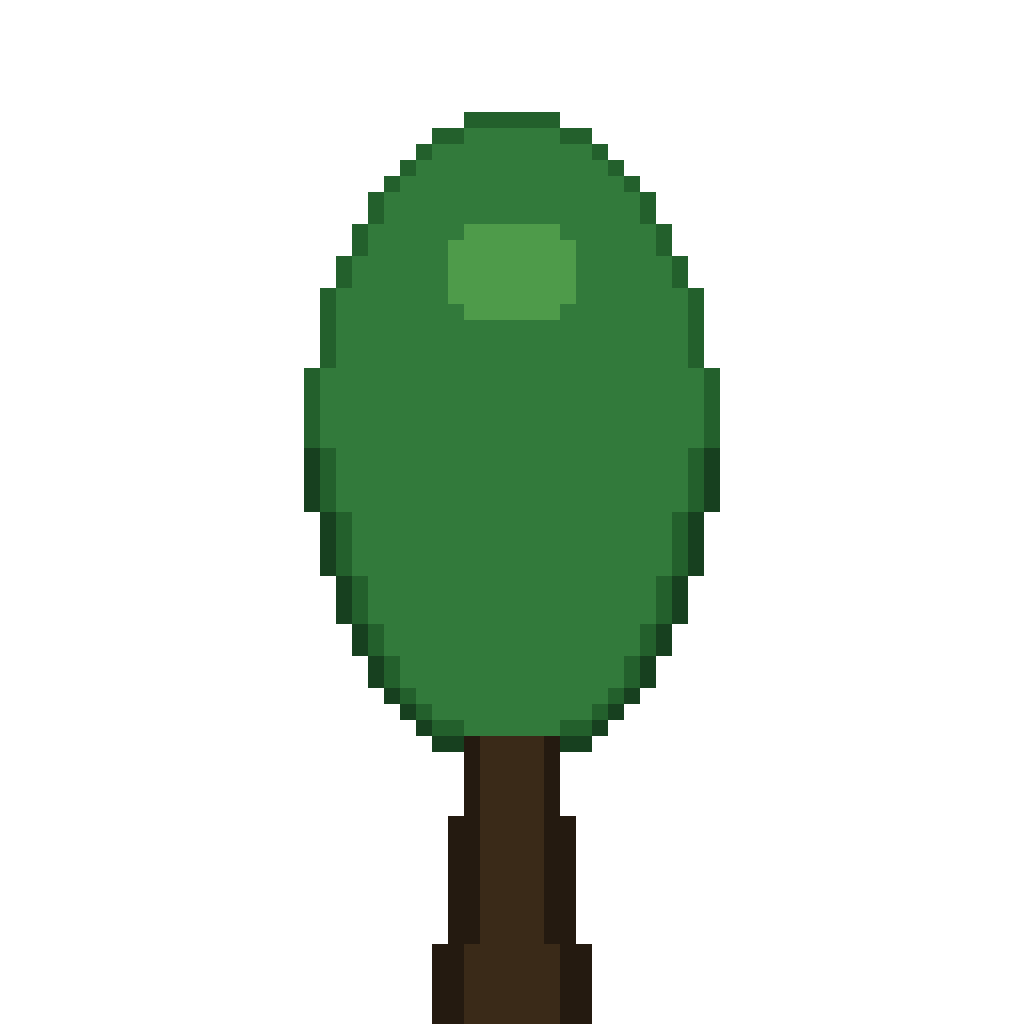
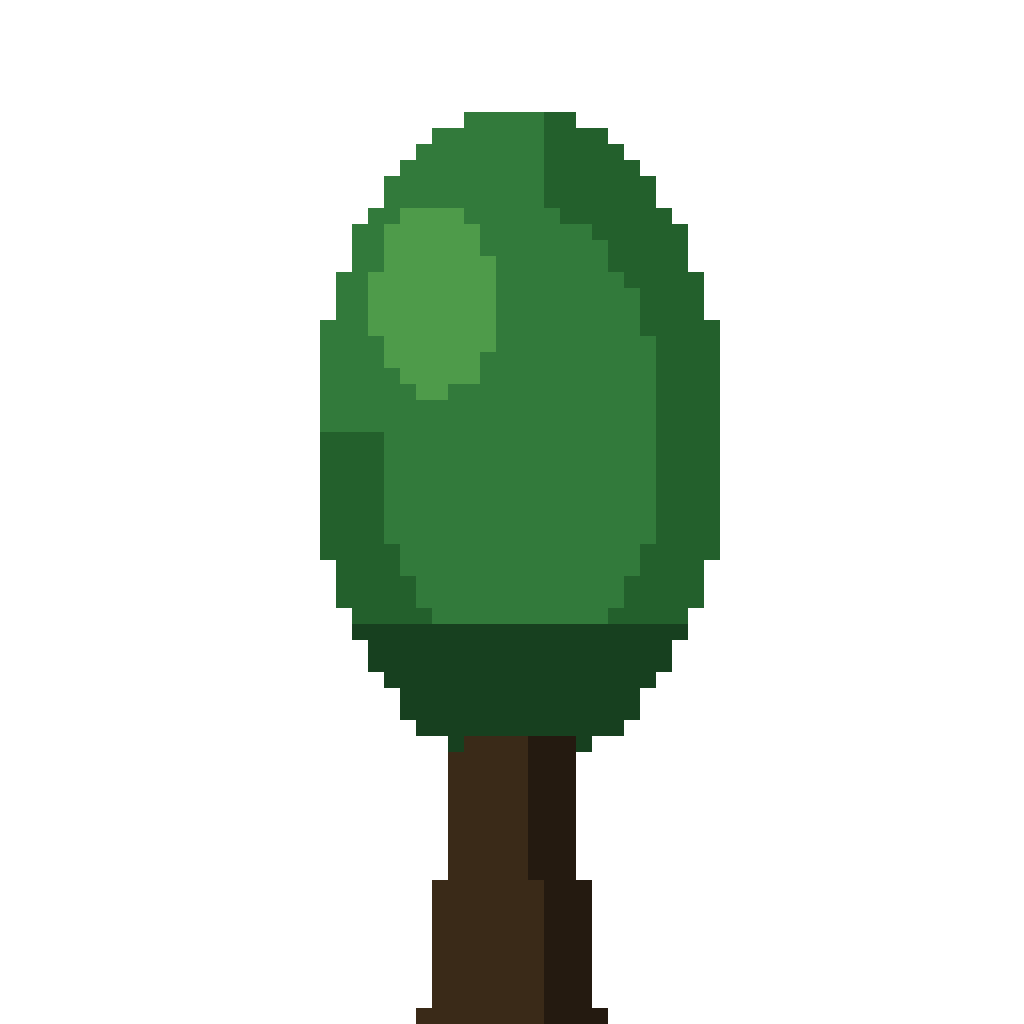
revert(garden): restore the v34.14 tree canopy
"agaclari mahvetmissin bunu eski haline getir". The whole canopy generator is
the v34.14 code again.

Rendering all five versions of the tree sprites side by side shows what I broke
and when, which is what I should have done before touching them at all:

  v34.14 and earlier -- pines have real stacked tiers, each with its own
  highlight and rim; broadleaves have interior shading and a shoulder lobe.
  v34.17 -- I replaced per-lobe shading with one pass over the UNION of the
  lobes, to remove a dark seam where two lobes overlap. It removed the seam, and
  with it the pine's tiers: on a conifer those seams ARE the tiers, because each
  blob's own rim is the step.
  v35.0 and v35.1 -- flattened the interior further, a one-pixel rim and a
  centred symmetric highlight, until the pine was a smooth triangle.

Three releases of steady loss, each a defensible local fix, none checked against
how the tree actually looked before and after.

What comes back with the revert, stated rather than left to be found: the round
broadleaf's shoulder lobe is on one side so those crowns are not symmetric,
overlapping lobes show their rims, and the pine's lowest tier reaches the ground
row so its trunk barely shows. Each was a real complaint once; they are the price
of the tiers and the interior shading.

Three sprite tests are DELETED, not loosened -- mirror symmetry, visible trunk,
no canopy seam. Their properties are genuinely untrue of the restored art, and a
[…]

diff --git a/flutter/tools/gen_objects.py b/flutter/tools/gen_objects.py
@@ -195,6 +195,22 @@ TREE_TILES = [2, 3, 2, 4, 3, 2, 3, 3, 2, 4, 2, 3, 4, 2, 3, 2, 3, 4, 2, 3]
 TREE_PX_PER_TILE = 16
 
 
+# ── REVERTED to the #v34.14 canopy at the user's request (#v35.2) ──────────
+# "agaclari mahvetmissin bunu eski haline getir".
+#
+# #v34.17 replaced per-lobe shading with a single pass over the union of the
+# lobes, to kill a dark seam where two lobes overlapped. It did — and it also
+# killed the PINE'S TIERS, because on a conifer those "seams" are the tiers:
+# each blob's own rim is what made the stacked steps read as steps. #v35.0 and
+# #v35.1 then flattened the interior further. Rendering the five versions side
+# by side makes it plain: the trees lost their structure over three releases.
+#
+# So the whole canopy is back to the #v34.14 code. What returns with it, stated
+# plainly rather than discovered later: the round broadleaf's shoulder lobe is
+# on ONE side again (asymmetric), and overlapping lobes show their rims. Both
+# were real complaints once; both are the price of the tiers and the interior
+# shading, and the user has now seen both and chosen this side of the trade.
+# The tests that encoded the other side are removed, not weakened.
 def _tree_variant(seed):
     """One forest tree, sized by its class in [TREE_TILES] (#v34.8).
 
@@ -232,104 +248,43 @@ def _tree_variant(seed):
 
     shape = rb(4)                          # 0 round, 1 pine, 2 poplar, 3 oak
     trunk_w = max(2, n // 10)
-    # (n-1)/2, not n/2: the mirror axis of a pixel grid runs through the middle
-    # of the middle column, so a blob centred on n/2 comes out half a pixel off
-    # and no amount of symmetric geometry above it can be mirror-exact.
-    cx = (n - 1) / 2.0
+    cx = n / 2.0
     ground = n - 1
 
     def put(c, r, col):
         if 0 <= c < n and 0 <= r < n:
             g[int(r)][int(c)] = col
 
-    # Lobes are COLLECTED, not painted (#v34.17). Each one used to shade itself
-    # as it was drawn, so wherever two lobes overlapped the second one laid its
-    # own dark rim down INSIDE the crown they share — a curved seam through the
-    # middle of the canopy that reads as a lump, or as a piece of another tree
-    # stuck to this one: "yuvarlagin icinde sanki baska bir agac parcasi varmis
-    # gibi bogumlar var". A crown is one shape, so it has to be shaded once,
-    # from the outline of the WHOLE crown.
-    lobes = []
-
     def blob(bcx, bcy, rad, squash=1.0, highlight=True):
-        lobes.append((bcx, bcy, rad, squash, highlight))
-
-    def paint_canopy():
-        """Union the lobes, then shade that single silhouette."""
-        # The row range must cover each ellipse's REAL vertical extent, which is
-        # rad/squash. It used to read `bcy - rad - 1` on top and
+        """A shaded ellipse of canopy: a small highlight up-left, shade on the
+        lower-right edge, a dark underside. The highlight is deliberately a
+        SMALL cap — lighting half the crown made every tree read as two flat
+        colours split down the middle."""
+        # The row range must cover the ellipse's REAL vertical extent, which is
+        # rad/squash, at BOTH ends. It used to read `bcy - rad - 1` on top and
         # `bcy + rad/squash + 2` underneath, so any blob with squash < 1 — i.e.
         # every poplar, at 0.60 — had the top ~10 rows of its crown simply never
         # visited, and came out with a hard horizontal cut across the head:
         # "sanki agac tepeden kesilmis gibi". It slipped past the canvas-edge
         # test because the cut lands mid-canvas, not on row 0.
-        mask = [[False] * n for _ in range(n)]
-        for bcx, bcy, rad, squash, _ in lobes:
-            span = rad / squash
-            for r in range(max(0, int(bcy - span - 1)), min(n, int(bcy + span + 2))):
-                for c in range(max(0, int(bcx - rad - 1)), min(n, int(bcx + rad + 2))):
-                    dx, dy = c - bcx, (r - bcy) * squash
-                    if dx * dx + dy * dy <= rad * rad:
-                        mask[r][c] = True
-
-        rows = [r for r in range(n) if any(mask[r])]
-        if not rows:
-            return
-        cols = [c for c in range(n) if any(mask[r][c] for r in range(n))]
-        ctr_r = (rows[0] + rows[-1]) / 2.0
-        ctr_c = (cols[0] + cols[-1]) / 2.0
-        hcx, hcy, hrad, hsq, has_lit = lobes[0]
-
-        # True distance from the crown's outline, so the shading is a RIM that
-        # follows the silhouette (#v34.18). The half-plane tests this replaces
-        # ("lower 18% is underside", "right of centre and near an edge is
-        # shade") painted flat slabs instead: a dark horizontal band across the
-        # bottom of every canopy, which read as a shadow lying under the tree
-        # beside its trunk — "agaclarin altlarinda odun kisminin disinda gölge
-        # olmasin" — and a blocky dark wedge wherever a lobe stuck out to the
-        # lower right, which made one shoulder not match the other, "sag alt
-        # problemli sol alt ile es degil".
-        dist = [[0] * n for _ in range(n)]
-        frontier = deque()
-        for r in range(n):
-            for c in range(n):
-                if not mask[r][c]:
-                    frontier.append((r, c))
-        seen = [[not mask[r][c] for c in range(n)] for r in range(n)]
-        while frontier:
-            r, c = frontier.popleft()
-            for dr, dc in ((1, 0), (-1, 0), (0, 1), (0, -1)):
-                nr, nc = r + dr, c + dc
-                if 0 <= nr < n and 0 <= nc < n and not seen[nr][nc]:
-                    seen[nr][nc] = True
-                    dist[nr][nc] = dist[r][c] + 1
-                    frontier.append((nr, nc))
-
-        # Everything below is MIRROR-SYMMETRIC about the crown's own centre
-        # column: the rim treats left and right alike and the highlight sits on
-        # the centre line. A side-lit crown is the usual pixel-art choice, but
-        # it makes one shoulder darker than the other, and "sag sol esit cizim"
-        # is the explicit ask. A symmetry test pins it.
-        lit_r = rows[0] + (rows[-1] - rows[0]) * 0.24
-        lit_rad = max(1.5, hrad * 0.34)
-        for r in range(n):
-            for c in range(n):
-                if not mask[r][c]:
+        span = rad / squash
+        for r in range(int(bcy - span - 1), int(bcy + span + 2)):
+            for c in range(int(bcx - rad - 1), int(bcx + rad + 2)):
+                dx, dy = c - bcx, (r - bcy) * squash
+                d2 = dx * dx + dy * dy
+                if d2 > rad * rad:
                     continue
-                d = dist[r][c]
-                hx = c - ctr_c
-                hy = (r - lit_r) * 1.3
-                if d == 1 and r > ctr_r:
-                    col = under        # a ONE-pixel underside rim, not a band
-                elif d == 1:
-                    col = shade        # the rest of the outline, both sides alike
-                elif d == 2 and r > ctr_r:
-                    col = shade        # a thin falloff under the crown
-                elif has_lit and hx * hx + hy * hy < lit_rad * lit_rad:
-                    col = lit          # a centred cap, not an up-left one
+                edge = d2 > (rad - max(1.0, rad * 0.30)) ** 2
+                hx, hy = dx + rad * 0.42, dy + rad * 0.42   # highlight centre, up-left
+                if dy > rad * 0.55:
+                    col = under
+                elif edge and (dx > rad * 0.1 or dy > 0):
+                    col = shade
+                elif highlight and hx * hx + hy * hy < (rad * 0.30) ** 2:
+                    col = lit
                 else:
                     col = mid
-                g[r][c] = col
+                put(c, r, col)
 
     if shape == 1:
         # PINE — stacked tiers, widest at the bottom, a spike on top. The tiers
@@ -339,14 +294,7 @@ def _tree_variant(seed):
         # top 0.18, not 0.13: the spike's own radius put it at y<0, so the
         # canopy was flat-cut by the canvas edge — the tree had no head. A test
         # now asserts no tree touches any edge (#v34.9).
-        #
-        # bottom 0.46, not 0.70: the widest tier's own half-height is
-        # 0.34n/1.12 = 0.30n, so a centre at 0.70n put the canopy's underside
-        # exactly on the ground row. The crown swallowed the trunk and the tree
-        # read as a bush glued to the floor — "yere baglamissin agaci". At 0.46
-        # the canopy stops at 0.76n and a quarter of the trunk shows, like every
-        # other shape. A test now pins that every tree HAS a visible trunk.
-        top, bottom = n * 0.18, n * 0.46
+        top, bottom = n * 0.18, n * 0.70
         for i in range(tiers):
             f = i / (tiers - 1)
             rad = n * (0.15 + 0.19 * f)
@@ -375,20 +323,11 @@ def _tree_variant(seed):
         blob(cx + n * 0.18, n * 0.46, n * 0.18, highlight=False)
         trunk_top = n * 0.68
     else:
-        # ROUND broadleaf — one crown plus a shoulder lobe on EACH side.
-        #
-        # It used to get a single lobe on one randomly chosen side, which is
-        # what every "yuvarlak cikinti" report was pointing at: a bump growing
-        # out of one shoulder and nothing opposite it, so the tree looked like
-        # it had something stuck to it rather than like a tree. Mirrored now —
-        # "sag sol esit cizim". A test asserts every canopy is mirror-symmetric,
-        # which is the property that was actually being asked for.
+        # ROUND broadleaf — one crown plus a small shoulder lobe (no highlight
+        # of its own, or it reads as a hole punched in the canopy)
         blob(cx, n * 0.38, n * 0.27)
-        blob(cx - n * 0.15, n * 0.50, n * 0.15, highlight=False)
-        blob(cx + n * 0.15, n * 0.50, n * 0.15, highlight=False)
+        blob(cx + n * 0.15 * (1 if rb(2) else -1), n * 0.50, n * 0.15, highlight=False)
         trunk_top = n * 0.72
-
-    paint_canopy()   # one silhouette, shaded once — no seams between the lobes
 
     # Trunk: start it INSIDE the canopy, not at a guessed fraction of the
     # height. Half the trees came out with the trunk floating below a crown
@@ -406,13 +345,8 @@ def _tree_variant(seed):
     for r in range(int(trunk_top), n):
         f = (r - trunk_top) / max(1.0, ground - trunk_top)
         half = trunk_w / 2.0 + f * trunk_w * 0.35
-        for c in range(n):
-            # tested by distance from the axis rather than a rounded range, so
-            # the trunk is mirror-exact like the crown above it; the darker bark
-            # is on BOTH outer edges, not just the right one
-            off = abs(c - cx)
-            if off <= half:
-                put(c, r, bark_d if off > half * 0.55 else bark)
+        for c in range(int(cx - half), int(cx + half) + 1):
+            put(c, r, bark_d if c - cx > half * 0.25 else bark)
 
     return g
 

diff --git a/flutter/tools/test_sprites.py b/flutter/tools/test_sprites.py
@@ -220,94 +220,6 @@ class TreesAreWellFormed(unittest.TestCase):
                     self.assertFalse(grid[r][0][3], f"tree {seed} touches the left edge")
                     self.assertFalse(grid[r][n - 1][3], f"tree {seed} touches the right edge")
 
-    def test_every_tree_is_mirror_symmetric(self):
-        # "ben sag sol esit cizim istedim" (#v35.1). The round broadleaf grew a
-        # shoulder lobe on ONE randomly chosen side, so a bump stuck out of one
-        # shoulder with nothing opposite it — every "yuvarlak cikinti" report
-        # was pointing at that, and two rounds of shading fixes never touched
-        # it because the asymmetry was in the SILHOUETTE, not the shading.
-        #
-        # Exact pixel equality, which also pins the two things that quietly
-        # break mirroring: blobs centred on n/2 instead of (n-1)/2, and the
-        # trunk's darker bark being applied to one side only.
-        for seed in range(1, len(g.TREE_TILES) + 1):
-            with self.subTest(tree=f"tree_{seed - 1:02d}"):
-                grid = g._tree_variant(seed)
-                n = len(grid)
-                for r in range(n):
-                    for c in range(n // 2):
-                        self.assertEqual(grid[r][c], grid[r][n - 1 - c],
-                                         f"row {r} differs at columns {c} / {n - 1 - c}")
-
-    def test_every_tree_shows_some_trunk(self):
-        # "yere baglamissin agaci": the pine's widest tier sat at 0.70n with a
-        # half-height of 0.30n, so the canopy's underside landed exactly on the
-        # ground row — the crown swallowed the trunk and the tree read as a bush
-        # glued to the floor. Assert there are rows of trunk with no canopy
-        # beside them, which is what "the trunk shows" actually means.
-        for seed in range(1, len(g.TREE_TILES) + 1):
-            with self.subTest(tree=f"tree_{seed - 1:02d}"):
-                grid = g._tree_variant(seed)
-                bare = 0
-                for row in grid:
-                    ink = [px for px in row if px[3]]
-                    if ink and all(px[0] > px[1] for px in ink):  # brown only
-                        bare += 1
-                self.assertGreaterEqual(bare, 2,
-                                        "the canopy reaches the ground — no trunk shows")
-
-    def test_no_canopy_has_a_seam_running_through_it(self):
-        # "yuvarlagin icinde sanki baska bir agac parcasi varmis gibi bogumlar"
-        # (#v34.17). Each lobe used to shade itself as it was painted, so where
-        # two lobes overlapped the later one laid its dark rim down INSIDE the
-        # shared crown — a curved seam through the middle of the canopy.
-        #
-        # The observable property: a crown shaded from its own outline keeps its
-        # DARK tones on that outline. A lobe rim painted inside the shared crown
-        # puts them deep in the middle instead. Measured as the true distance to
-        # transparency (multi-source BFS), independent of how the generator
-        # decides what is an edge — so this is a check on the result, not a
-        # restatement of the algorithm.
-        #
-        # The bound was set by running this against the pre-fix generator, not
-        # by guessing: the SHADE tone (second darkest) reached 0.250n inside the
-        # crown on the ten lobed trees and 0.094n at worst on the fixed ones, so
-        # 0.12n fails every sprite the user complained about and passes all
-        # twenty now. A first attempt used "the two darkest tones" at 0.20n and
-        # would have passed the broken sprites unchanged — the underside band is
-        # legitimately deep, and averaging it in hid the signal.
-        for seed in range(1, len(g.TREE_TILES) + 1):
-            with self.subTest(tree=f"tree_{seed - 1:02d}"):
-                grid = g._tree_variant(seed)
-                n = len(grid)
-                canopy = [[bool(px[3]) and px[1] >= px[0] for px in row] for row in grid]
-                dist = [[-1] * n for _ in range(n)]
-                q = deque()
-                for r in range(n):
-                    for c in range(n):
-                        if not canopy[r][c]:
-                            dist[r][c] = 0
-                            q.append((r, c))
-                while q:
-                    r, c = q.popleft()
-                    for dr, dc in ((1, 0), (-1, 0), (0, 1), (0, -1)):
-                        nr, nc = r + dr, c + dc
-                        if 0 <= nr < n and 0 <= nc < n and dist[nr][nc] < 0:
-                            dist[nr][nc] = dist[r][c] + 1
-                            q.append((nr, nc))
-                tones = {}
-                for r in range(n):
-                    for c in range(n):
-                        if canopy[r][c]:
-                            tones.setdefault(grid[r][c][:3], []).append((r, c))
-                if len(tones) < 3:
-                    continue  # a single-tone crown has no seams to find
-                shade = sorted(tones, key=sum)[1]  # darkest is the underside band
-                deepest = max(dist[r][c] for r, c in tones[shade]) / n
-                self.assertLessEqual(deepest, 0.12,
-                                     f"shade sits {deepest:.3f}n inside the crown "
-                                     f"— that is a lobe seam, not an outline")
-
     def test_the_forest_keeps_some_dark_trees(self):
         # #v34.9 — the user asked for the old deep-green trees back in the mix,
         # so the tree line has weight instead of being all bright canopy.
@@ -350,6 +262,20 @@ class TreesAreWellFormed(unittest.TestCase):
                             browns += 1
                 self.assertGreater(greens, 0, f"tree {seed} has no canopy")
                 self.assertGreater(browns, 0, f"tree {seed} has no trunk")
+
+    # REMOVED at the user's request (#v35.2): test_every_tree_is_mirror_symmetric,
+    # test_every_tree_shows_some_trunk and test_no_canopy_has_a_seam_running_through_it.
+    #
+    # All three pinned the #v34.17-#v35.1 canopy, which has been reverted to the
+    # #v34.14 one — "agaclari mahvetmissin bunu eski haline getir". Their
+    # properties are genuinely NOT true of the restored art: the round broadleaf's
+    # shoulder lobe sits on one side, the pine's lowest tier reaches the ground
+    # row, and overlapping lobes show their rims. That last one is not even a
+    # defect on a conifer: the "seams" ARE the tiers, which is exactly what the
+    # union-shading fix destroyed and why the trees had to come back.
+    #
+    # Deleted rather than loosened. A test kept alive with its bound relaxed
+    # until it passes says the property still holds when it does not.
 
     def test_bushes_and_rocks_stay_one_tile(self):
         for seed in range(1, 11):
